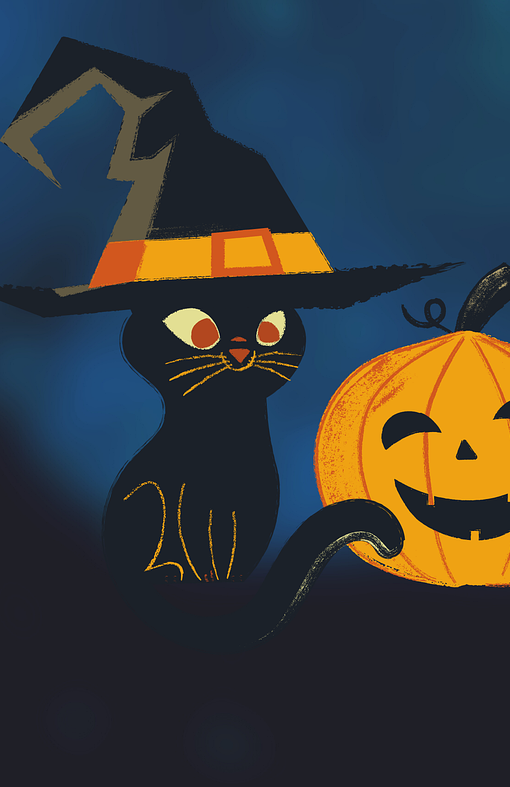
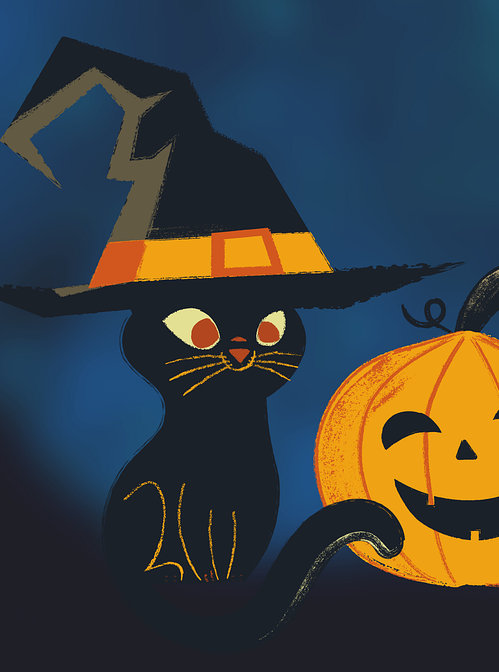
fixed the middle alignment by eliminating a tag and made the images a bit smaller. The <blockquote> is now in cursive.

diff --git a/Ueb1/index.html b/Ueb1/index.html
@@ -13,9 +13,15 @@
 <body>
     <div>
         <header id="top">
-            <a href="#">Subscribe</a>
-            <h1>Headline</h1>
-            <button>Sign up</button>
+            <a href="#">
+                Subscribe
+            </a>
+            <h1>
+                Headline
+            </h1>
+            <button>
+                Sign up
+            </button>
         </header>
         <hr class="nav">
         <nav>
@@ -37,10 +43,14 @@
         <main>
             <div class="upperhalf">
                 <section class="post1left">
-                    <h2><strong>This is an imaginary title for an article</strong></h2>
-                    <p>Lorem ipsum dolor sit amet consectetur adipisicing elit. Possimus corporis, beatae vel eius nobis
+                    <h2><strong>
+                        This is an imaginary title for an article
+                    </strong></h2>
+                    <p>
+                        Lorem ipsum dolor sit amet consectetur adipisicing elit. Possimus corporis, beatae vel eius nobis
                         quae porro eligendi eos architecto quos debitis obcaecati nostrum impedit itaque placeat unde!
-                        Dolorem, sed molestiae?</p>
+                        Dolorem, sed molestiae?
+                    </p>
                     <a href="#">Continue reading...</a>
                 </section>
                 <section class="post1right"></section>
@@ -49,67 +59,97 @@
             <div class="middle">
                 <section class="post">
                     <div class="post-text">
-                        <span class="category1">World</span>
-                        <h3>A new post</h3>
+                        <span class="category1">
+                            World
+                        </span>
+                        <h3>
+                            A new post
+                        </h3>
                         <time datetime="2025-10-01">Oct 01</time>
                         <p>
                             Gallia est omnis divisa in partes tres, quarum unam incolunt Belgae, aliam Aquitani,
-                            tertiam qui ipsorum lingua Celtae, nostra Galli appellantur.
+                            tertiam qui ipsorum lingua Celtae, nostra Galli appellantur. Lorem ipsum dolor sit amet consectetur adipisicing elit. Adipisci quia tempora, fugit, omnis reiciendis magni nesciunt nam, reprehenderit officiis deserunt vel? Minima distinctio dignissimos nisi. Est similique iusto asperiores hic.
                         </p>
                         <a href="#">Continue reading...</a>
                     </div>
-                    <div class="post-image">
                         <img src="images/post2.png" alt="Example image">
-                    </div>
                 </section>
                 <section class="post">
                     <div class="post-text">
-                        <span class="category2">History</span>
-                        <h3>Another post</h3>
-                        <time datetime="2025-10-03">Oct 02</time>
+                        <span class="category2">
+                            History
+                        </span>
+                        <h3>
+                            Another post
+                        </h3>
+                        <time datetime="2025-10-03">
+                            Oct 02
+                        </time>
                         <p>
                             Belgae ab extremis Galliae finibus oriuntur, pertinent ad inferiorem partem
-                            fluminis Rheni, spectant in septentrionem et orientem solem.
+                            fluminis Rheni, spectant in septentrionem et orientem solem. Lorem ipsum, dolor sit amet consectetur adipisicing elit. Tempora provident ea perspiciatis. Nostrum aliquid sapiente in eos eius, unde reprehenderit voluptate!
                         </p>
-                        <a href="#">Continue reading...</a>
+                        <a href="#">
+                            Continue reading...
+                        </a>
                     </div>
-                    <div class="post-image">
                         <img src="images/post3.jpg" alt="Example image">
-                    </div>
                 </section>
             </div>
 
             <div class="lowerhalf">
                 <section class="long-post">
-                    <h3>Some random text</h3>
+                    <h3>
+                        Some random text
+                    </h3>
                     <hr>
-                    <h2><strong>Main blog post</strong></h2>
-                    <span><time datetime="2025-09-29">September 29, 2025</time> by <a href="#">Some Guy</a></span>
-                    <p>Apud Helvetios longe nobilissimus fuit et ditissimus Orgetorix. is M. Messala M. Pisone
-                        consulibus regni cupiditate inductus coniurationem nobilitatis fecit</p>
+                    <h2><strong>
+                        Main blog post
+                    </strong></h2>
+                    <span>
+                        <time datetime="2025-09-29">September 29, 2025</time> by <a href="#">Some Guy</a></span>
+                    <p>
+                        Apud Helvetios longe nobilissimus fuit et ditissimus Orgetorix. is M. Messala M. Pisone
+                        consulibus regni cupiditate inductus coniurationem nobilitatis fecit
+                    </p>
                     <hr>
-                    <p>id hoc facilius eis persuasit, quod undique loci natura Helvetii continentur: una ex parte
+                    <p>
+                        id hoc facilius eis persuasit, quod undique loci natura Helvetii continentur: una ex parte
                         flumine Rheno latissimo atque altissimo, qui agrum Helvetium a Germanis dividit, altera ex parte
                         monte Iura altissimo, qui est inter Sequanos et Helvetios, tertia lacu Lemanno et flumine
                         Rhodano, qui provinciam nostram ab Helvetiis dividit. his rebus fiebat, ut et minus late
                         vagarentur et minus facile finitimis bellum inferre possent; qua ex parte homines bellandi
-                        cupidi magno dolore adficiebantur.<br><br>
-                        <em>pro multitudine autem hominum et pro gloria belli atque fortitudinis angustos se fines
+                        cupidi magno dolore adficiebantur.
+                        <br><br>
+                        <em>
+                            Pro multitudine autem hominum et pro gloria belli atque fortitudinis angustos se fines
                             habere arbitrabantur, qui in longitudinem milia passuum CCXL, in latitudinem CLXXX
-                            patebant.</em>
+                            patebant.
+                        </em>
                     </p>
-                    <h2>Heading</h2>
-                    <p>His rebus adducti et auctoritate Orgetorigis permoti constituerunt ea, quae ad proficiscendum
+                    <h2>
+                        Heading
+                    </h2>
+                    <p>
+                        His rebus adducti et auctoritate Orgetorigis permoti constituerunt ea, quae ad proficiscendum
                         pertinerent, comparare, iumentorum et carrorum quam maximum numerum coemere, sementes quam
                         maximas facere, ut in itinere copia frumenti suppeteret, cum proximis civitatibus pacem et
-                        amicitiam confirmare. ad eas res conficiendas biennium sibi satis esse duxerunt;</p>
-                    <h3>Sub-heading1</h3>
-                    <p>Ea res est Helvetiis per indicium enuntiata. moribus suis Orgetorigem ex vinculis causam dicere
+                        amicitiam confirmare. ad eas res conficiendas biennium sibi satis esse duxerunt;
+                    </p>
+                    <h3>
+                        Sub-heading1
+                    </h3>
+                    <p>
+                        Ea res est Helvetiis per indicium enuntiata. moribus suis Orgetorigem ex vinculis causam dicere
                         coegerunt; damnatum poenam sequi oportebat, ut igni cremaretur. die constituta causae dictionis
                         Orgetorix ad iudicium omnem suam familiam, ad hominum milia decern, undique coegit et omnes
-                        clientes obaeratosque suos, quorum magnum numerum habebat, eodem conduxit;</p>
-                    <h3>Sub-heading2</h3>
-                    <p>id hoc facilius eis persuasit, quod undique loci natura Helvetii continentur: una ex parte
+                        clientes obaeratosque suos, quorum magnum numerum habebat, eodem conduxit;
+                    </p>
+                    <h3>
+                        Sub-heading2
+                    </h3>
+                    <p>
+                        id hoc facilius eis persuasit, quod undique loci natura Helvetii continentur: una ex parte
                         flumine Rheno latissimo
                         atque altissimo, qui agrum Helvetium a Germanis dividit.Post eius mortem nihilo minus Helvetii
                         id quod constituerant
@@ -120,23 +160,32 @@
                         praeter quod secum portaturi erant, comburunt, ut
                         domum reditionis spe sublata paratiores ad omnia pericula subeunda essent; trium mensum molita
                         cibaria sibi
-                        quemque domo efferre iubent.</p>
-                    <blockquote>"Erant omnino itinera duo quibus itineribus domo exire
+                        quemque domo efferre iubent.
+                    </p>
+                    <blockquote><i>
+                        "Erant omnino itinera duo quibus itineribus domo exire
                         possent: unum per Sequanos, angustum et difficile, inter
                         montem Iuram et flumen Rhodanum, vix qua singuli
                         carri ducerentur. mons autem altissimus impendebat, ut
                         facile perpauci prohibere possent; alterum per provinciam nostram, multo facilius atque
                         expeditius, propterea
                         quod inter fines Helvetiorum et Allobrogum, qui nuper
-                        pacati erant."</blockquote>
+                        pacati erant."
+                    </blockquote></i>
                 </section>
                 <aside>
                     <section>
-                        <h3>About</h3>
-                        <p>Rhodanus fluit isque nonnullis locis vado transitur. extremum oppidum Allobrogum est
+                        <h3>
+                            About
+                        </h3>
+                        <p>
+                            Rhodanus fluit isque nonnullis locis vado transitur. extremum oppidum Allobrogum est
                             proximumque Helvetiorum
-                            finibus Genava.</p>
-                        <h3>Archives</h3>
+                            finibus Genava.
+                        </p>
+                        <h3>
+                            Archives
+                        </h3>
                         <ul>
                             <li><a href="#">Oct 2025</a></li>
                             <li><a href="#">Sept 2025</a></li>
@@ -153,8 +202,12 @@
         </main>
     </div>
     <footer>
-        <p>WebTech <a href="#">Template</a></p>
-        <p><a href="#top" class="top">Back to top</a></p>
+        <p>
+            WebTech <a href="#">Template</a>
+        </p>
+        <p>
+            <a href="#top" class="top">Back to top</a>
+        </p>
     </footer>
 </body>
 

diff --git a/Ueb1/style.css b/Ueb1/style.css
@@ -28,8 +28,7 @@ header {
 }
 
 header h1 { /*oder header > h1*/
-    margin-bottom: 10px;
-    margin-top: 10px;
+    margin: 0%;
     font-size: 35px;
     font-family: "DMSans";
 }
@@ -68,7 +67,6 @@ nav {
 
 nav a {
     color: rgb(71, 70, 84);
-    
 }
 
 .nav {
@@ -112,12 +110,8 @@ nav a {
     display: grid;
     grid-template-columns: repeat(2, 1fr);
     gap: 30px;
+    margin-bottom: 30px;
     
-}
-
-.post-image {
-    margin: 0%;
-    background: #3190f7;
 }
 
 .post{
@@ -125,14 +119,10 @@ nav a {
     grid-template-columns: 2fr 1fr;
 }
 
-div.post-image {
-    margin: 0%;
-}
-
-.post-image img {
-    position: absolute;
-    width: 12%;
-    height: 34%;   
+img {
+    margin : 0;
+    width: 100%;
+    height: 100%;   
 }
 
 .post-text span.category1 {
@@ -148,9 +138,9 @@ div.post-image {
     border-top: 1px solid rgb(126, 122, 141);
     border-left: 1px solid rgb(126, 122, 141);
     margin: 0%;
-    margin-bottom: 30px;
+    
     padding: 10px;
-    background: #a83597;
+    background: #cecace;
 }
 
 .lowerhalf {
